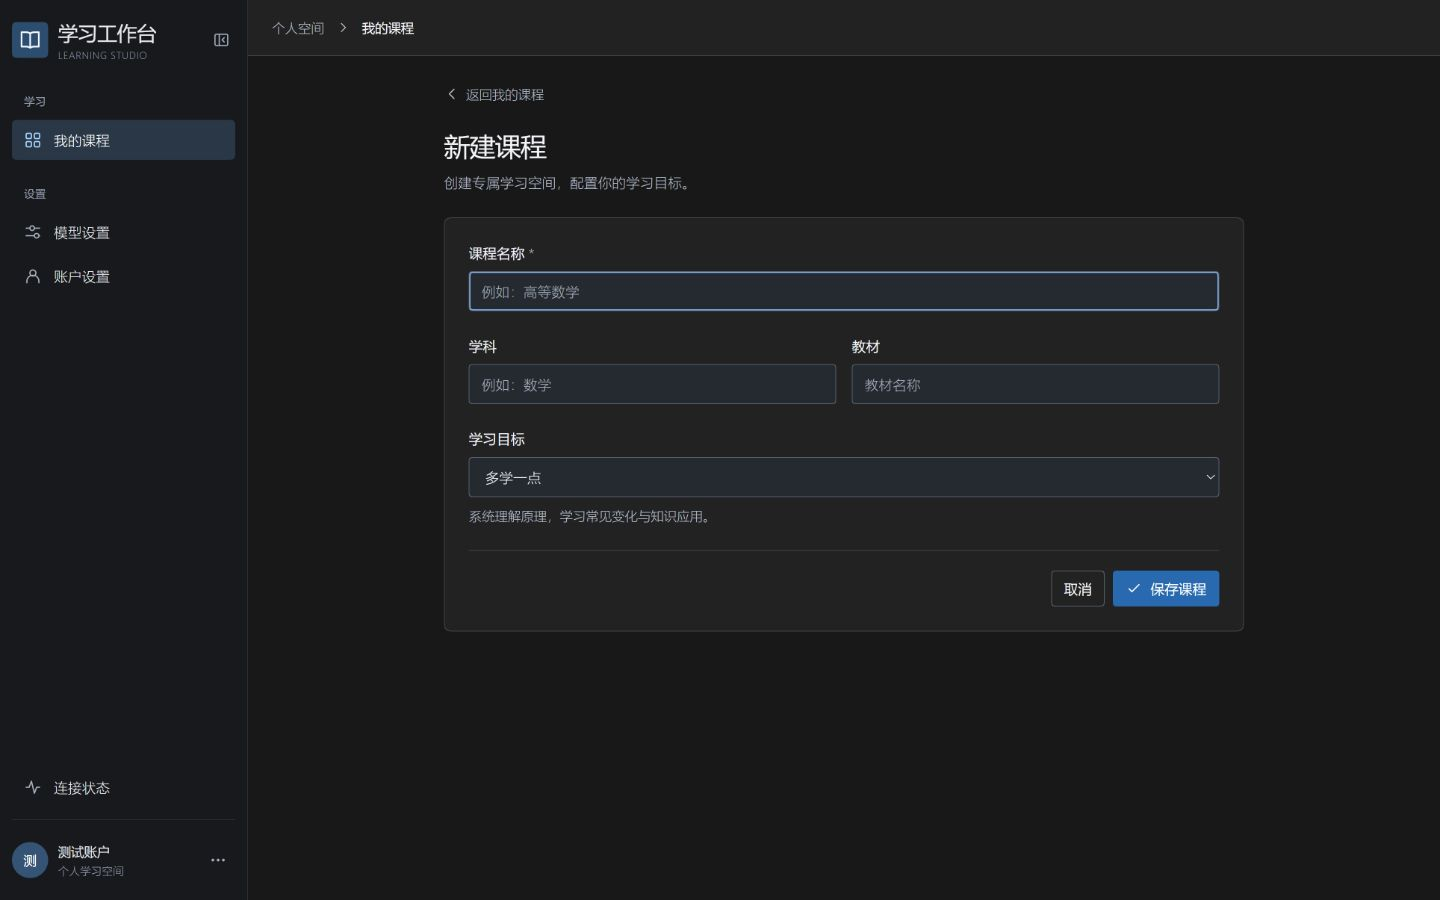
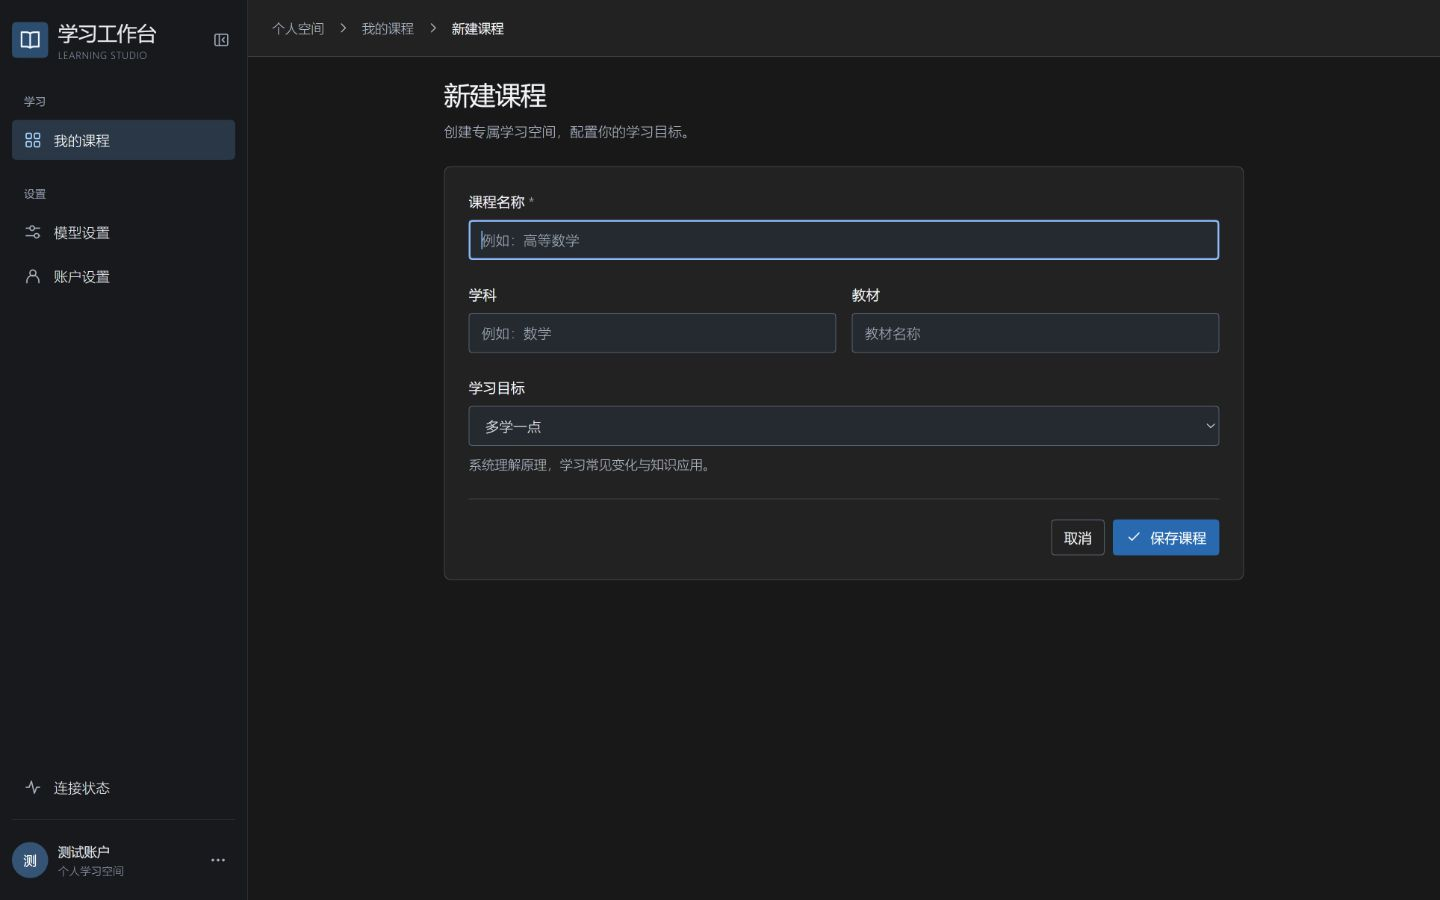
fix(ui): return through course breadcrumbs

diff --git a/frontend/tests/course-workspace.test.tsx b/frontend/tests/course-workspace.test.tsx
@@ -28,6 +28,7 @@ beforeEach(() => {
   vi.spyOn(window, 'confirm').mockReturnValue(false);
   vi.stubGlobal('requestAnimationFrame', (callback: FrameRequestCallback) => setTimeout(() => callback(0), 0));
   vi.mocked(api).mockImplementation(async path => {
+    if (path === 'users/me') return { id: 'user', display_name: '学生', email: 'student@example.com' };
     if (path.startsWith('courses?')) return courses;
     if (path.endsWith('/uploads')) return [];
     throw new Error('Unexpected request');
@@ -36,12 +37,31 @@ beforeEach(() => {
 afterEach(() => { cleanup(); vi.restoreAllMocks(); vi.unstubAllGlobals(); });
 
 async function ready() {
-  render(<CourseSpace />);
+  render(<Workspace />);
   fireEvent.click(await screen.findByRole('button', { name: '进入高等数学' }));
   await screen.findByRole('heading', { name: '高等数学' });
 }
 
 describe('desktop course workspace', () => {
+  it('navigates each course breadcrumb level and protects unsaved changes', async () => {
+    await ready();
+    expect(screen.queryByRole('button', { name: '返回' })).not.toBeInTheDocument();
+    fireEvent.click(screen.getByRole('button', { name: '编辑课程' }));
+    fireEvent.change(screen.getByLabelText(/课程名称/), { target: { value: '尚未保存的课程' } });
+    fireEvent.click(screen.getByRole('button', { name: '高等数学' }));
+    expect(window.confirm).toHaveBeenCalledOnce();
+    expect(screen.getByLabelText(/课程名称/)).toHaveValue('尚未保存的课程');
+    vi.mocked(window.confirm).mockReturnValue(true);
+    fireEvent.click(screen.getByRole('button', { name: '高等数学' }));
+    expect(screen.queryByLabelText(/课程名称/)).not.toBeInTheDocument();
+    expect(screen.getByRole('heading', { name: '高等数学' })).toBeInTheDocument();
+    fireEvent.click(screen.getByRole('button', { name: '我的课程' }));
+    expect(screen.getByRole('region', { name: '学习中的课程' })).toBeInTheDocument();
+    fireEvent.click(screen.getByRole('button', { name: '新建课程' }));
+    expect(screen.queryByRole('button', { name: '返回我的课程' })).not.toBeInTheDocument();
+    fireEvent.click(screen.getByRole('button', { name: '我的课程' }));
+    expect(screen.queryByLabelText(/课程名称/)).not.toBeInTheDocument();
+  });
   it('preserves all form values after a failed create and retries the same API contract', async () => {
     render(<CourseSpace />);
     fireEvent.click(await screen.findByRole('button', { name: '新建课程' }));
@@ -85,7 +105,7 @@ describe('desktop course workspace', () => {
     expect(screen.getByLabelText('章节 1标题')).toHaveValue('未保存的目录');
   });
   it('shows only active courses in one container and opens detail explicitly', async () => {
-    render(<CourseSpace />);
+    render(<Workspace />);
     const enter = await screen.findByRole('button', { name: '进入高等数学' });
     expect(screen.queryByRole('heading', { name: '高等数学' })).not.toBeInTheDocument();
     expect(screen.queryByText('大学物理')).not.toBeInTheDocument();
@@ -97,7 +117,7 @@ describe('desktop course workspace', () => {
     fireEvent.click(enter);
     expect(screen.getByRole('heading', { name: '高等数学' })).toBeInTheDocument();
     expect(screen.queryByRole('region', { name: '学习中的课程' })).not.toBeInTheDocument();
-    fireEvent.click(screen.getByRole('button', { name: '返回' }));
+    fireEvent.click(screen.getByRole('button', { name: '我的课程' }));
     fireEvent.change(screen.getByRole('searchbox', { name: '搜索当前页课程' }), { target: { value: '上册' } });
     expect(screen.getByRole('button', { name: /高等数学/ })).toBeInTheDocument();
     expect(screen.queryByRole('button', { name: /大学物理/ })).not.toBeInTheDocument();
@@ -110,7 +130,7 @@ describe('desktop course workspace', () => {
 
   it('protects an unsaved editor and sends only the existing course fields on save', async () => {
     await ready();
-    fireEvent.click(screen.getByRole('button', { name: '返回' }));
+    fireEvent.click(screen.getByRole('button', { name: '我的课程' }));
     fireEvent.click(screen.getByRole('button', { name: '新建课程' }));
     fireEvent.change(screen.getByLabelText(/课程名称/), { target: { value: '概率论' } });
     fireEvent.click(screen.getByRole('button', { name: '取消' }));
@@ -143,7 +163,7 @@ describe('desktop course workspace', () => {
     await ready();
     expect(screen.getAllByRole('tab')).toHaveLength(2);
     expect(screen.queryByRole('tab', { name: /学习资料/ })).not.toBeInTheDocument();
-    fireEvent.click(screen.getByRole('button', { name: '返回' }));
+    fireEvent.click(screen.getByRole('button', { name: '我的课程' }));
     fireEvent.click(screen.getByRole('button', { name: '进入高等数学' }));
     expect(vi.mocked(api).mock.calls.some(([path]) => path.endsWith('/uploads'))).toBe(false);
   });
@@ -316,14 +336,14 @@ describe('account and shell states', () => {
 
   it('requires confirmation before returning from an unsaved compact editor to the directory', async () => {
     await ready();
-    fireEvent.click(screen.getByRole('button', { name: '返回' }));
+    fireEvent.click(screen.getByRole('button', { name: '我的课程' }));
     fireEvent.click(screen.getByRole('button', { name: '新建课程' }));
     fireEvent.change(screen.getByLabelText(/课程名称/), { target: { value: '尚未保存' } });
-    fireEvent.click(screen.getByRole('button', { name: '返回我的课程' }));
+    fireEvent.click(screen.getByRole('button', { name: '我的课程' }));
     expect(window.confirm).toHaveBeenCalledOnce();
     expect(screen.getByLabelText(/课程名称/)).toHaveValue('尚未保存');
     vi.mocked(window.confirm).mockReturnValue(true);
-    fireEvent.click(screen.getByRole('button', { name: '返回我的课程' }));
+    fireEvent.click(screen.getByRole('button', { name: '我的课程' }));
     expect(screen.queryByLabelText(/课程名称/)).not.toBeInTheDocument();
     expect(screen.getByRole('region', { name: '学习中的课程' }).closest('.course-space')).not.toHaveClass('showing-detail');
   });

diff --git a/frontend/components/workspace.tsx b/frontend/components/workspace.tsx
@@ -1,6 +1,6 @@
 'use client';
 
-import { useEffect, useState } from 'react';
+import { Fragment, useEffect, useState } from 'react';
 import Link from 'next/link';
 import { Account, type User } from './account';
 import { CourseSpace } from './course-space';
@@ -9,7 +9,7 @@ import { AISettings } from './ai-settings';
 import { Icon } from './icon';
 import { AppSidebar } from './app-sidebar';
 import { ConnectionStatus } from './connection-status';
-import { Breadcrumb } from './ui';
+import { Breadcrumb, type BreadcrumbItem } from './ui';
 import { useWorkspaceNavigation, workspaceLabels } from '../lib/workspace-navigation';
 import { api, ApiError } from '../lib/api';
 
@@ -23,6 +23,7 @@ export function Workspace({ testLoginEnabled = false, accountNotice = '', system
   const [busy, setBusy] = useState(false);
   const [dirty, setDirty] = useState(false);
   const [retry, setRetry] = useState(0);
+  const [courseCrumbs, setCourseCrumbs] = useState<BreadcrumbItem[]>([]);
   const { view, navigate } = useWorkspaceNavigation(systemView ? 'system' : 'courses', leaveEditor, () => setDirty(false));
 
   useEffect(() => {
@@ -91,14 +92,18 @@ export function Workspace({ testLoginEnabled = false, accountNotice = '', system
     <div className="app-body">
       <header className="workspace-topbar">
         <Breadcrumb><span>个人空间</span><Icon name="chevron" size={14} />
-          <strong aria-current="page">{workspaceLabels[view]}</strong></Breadcrumb>
+          {view === 'courses' && courseCrumbs.length ? courseCrumbs.map((item, index) => <Fragment key={index}>
+            {index ? <Icon name="chevron" size={14} /> : null}
+            {item.onSelect ? <button type="button" disabled={item.disabled} onClick={item.onSelect} title={item.label}>{item.label}</button> :
+              <strong aria-current={index === courseCrumbs.length - 1 ? 'page' : undefined} title={item.label}>{item.label}</strong>}
+          </Fragment>) : <strong aria-current="page">{workspaceLabels[view]}</strong>}</Breadcrumb>
       </header>
       <main id="main-content" className="workspace-main">
         {notice ? <p className="notice error" role="alert"><Icon name="alert" size={18} />{notice}</p> : null}
         {view === 'system' ? <div className="status-page"><div className="page-heading"><div><h1>连接状态</h1>
           <p>查看工作台与基础服务的连接情况。</p></div></div><ConnectionStatus /></div> : user && (view === 'ai' ? <AISettings key={user.id} userId={user.id} onDirtyChange={setDirty} onSessionExpired={expired} /> : view === 'profile' ? <Profile user={user} onUpdate={setUser} onSessionExpired={expired} onPasswordChanged={() => {
           expired(); setNotice('密码已修改，请重新登录。');
-        }} /> : <CourseSpace onDirtyChange={setDirty} onSessionExpired={expired} />)}
+        }} /> : <CourseSpace onDirtyChange={setDirty} onSessionExpired={expired} onBreadcrumbChange={setCourseCrumbs} />)}
       </main>
     </div>
   </div>;

diff --git a/frontend/components/course-space.tsx b/frontend/components/course-space.tsx
@@ -9,11 +9,12 @@ import { CourseEditor } from './course-editor';
 import { CurriculumEditor } from './curriculum';
 import { Icon } from './icon';
 import { Toast, useToast } from './toast';
-import { PageContainer } from './ui';
+import { PageContainer, type BreadcrumbItem } from './ui';
 
-export function CourseSpace({ onDirtyChange, onSessionExpired }: {
+export function CourseSpace({ onDirtyChange, onSessionExpired, onBreadcrumbChange }: {
   onDirtyChange?: (dirty: boolean) => void;
   onSessionExpired?: () => void;
+  onBreadcrumbChange?: (items: BreadcrumbItem[]) => void;
 }) {
   const [courses, setCourses] = useState<Course[]>([]);
   const [selected, setSelected] = useState<Course | null>(null);
@@ -40,6 +41,21 @@ export function CourseSpace({ onDirtyChange, onSessionExpired }: {
     onDirtyChange?.(dirty);
   }, [dirty, onDirtyChange]);
   useEffect(() => () => onDirtyChange?.(false), [onDirtyChange]);
+  useEffect(() => () => onBreadcrumbChange?.([]), [onBreadcrumbChange]);
+
+  // Course state and guarded navigation stay here; the shell only renders this snapshot.
+  useEffect(() => {
+    const items: BreadcrumbItem[] = [{ label: '我的课程' }];
+    if (editing || selected) {
+      items[0] = { label: '我的课程', disabled: busy, onSelect: () => { if (!busy) backToDirectory(); } };
+      if (editing === 'new') items.push({ label: '新建课程' });
+      else if (selected) {
+        items.push({ label: selected.title, ...(editing ? { disabled: busy, onSelect: () => { if (!busy) cancelEditor(); } } : {}) });
+        if (editing) items.push({ label: '编辑课程' });
+      }
+    }
+    onBreadcrumbChange?.(items);
+  }, [editing, selected, dirty, busy, onBreadcrumbChange]);
 
   useEffect(() => {
     if (!dirty) return;
@@ -206,9 +222,6 @@ export function CourseSpace({ onDirtyChange, onSessionExpired }: {
               onClick={() => page(offset + 100)}><Icon name="chevron" size={16} /></button></div></div> : null}
       </section>
       : <PageContainer size={editing ? 'standard' : 'full'} className={'detail-region' + (editing ? ' course-form-page' : '')} ref={detailRegion}>
-        <button className="text-button detail-back" disabled={busy} onClick={backToDirectory}>
-          <span className="rotate-icon"><Icon name="chevron" size={16} /></span>{editing ? '返回我的课程' : '返回'}
-        </button>
         {editing ? <CourseEditor key={editing === 'new' ? 'new' : selected!.id} course={editing === 'new' ? null : selected}
           busy={busy} onSave={data => void save(data)} onCancel={cancelEditor} onDirty={() => setDirty(true)} /> :
           selected ? <section className="detail-panel" aria-labelledby="course-detail-title">

diff --git a/frontend/styles/ui.css b/frontend/styles/ui.css
@@ -36,6 +36,11 @@ select { color-scheme: inherit; }
 select option { background: var(--surface); color: var(--text-primary); }
 .breadcrumb { color: var(--text-secondary); font-size: var(--font-caption); gap: var(--space-3); }
 .breadcrumb strong { color: var(--text-primary); }
+.breadcrumb { min-width: 0; }
+.breadcrumb > :is(button, strong) { min-width: 0; max-width: 32ch; overflow: hidden; text-overflow: ellipsis; white-space: nowrap; }
+.breadcrumb button { flex-shrink: 0; padding: var(--space-1) 0; min-height: 32px; border: 0; border-radius: var(--radius-small); background: transparent; color: var(--text-secondary); text-align: left; }
+.breadcrumb button:hover:enabled { color: var(--text-primary); text-decoration: underline; text-underline-offset: 4px; }
+.breadcrumb button:disabled { cursor: progress; }
 .page-container { width: 100%; min-width: 0; margin-inline: auto; }
 .page-container-narrow { max-width: var(--container-narrow); }
 .page-container-standard { max-width: var(--container-standard); }
@@ -53,7 +58,6 @@ select option { background: var(--surface); color: var(--text-primary); }
 .form-field small { color: var(--text-secondary); font-size: var(--font-caption); line-height: 1.6; }
 .form-field .field-error { color: var(--danger); }
 .course-library .course-form-page { flex: 1; overflow-y: auto; overscroll-behavior: contain; padding-bottom: var(--space-6); }
-.course-form-page .detail-back { color: var(--text-secondary); margin-bottom: var(--space-4); padding-inline: 0; }
 .course-editor { flex: none; min-width: 0; }
 .course-editor .form-stack { display: grid; gap: var(--space-6); }
 .course-form-fields { border: 0; margin: 0; padding: 0; min-width: 0; }
@@ -72,5 +76,7 @@ select option { background: var(--surface); color: var(--text-primary); }
   .course-editor .field-pair { grid-template-columns: minmax(0, 1fr); }
   .course-editor .form-stack :is(input.ui-input, select.ui-select) { min-height: var(--touch-target); font-size: 16px; }
   .button { min-height: var(--touch-target); }
-  .course-form-page .detail-back { min-height: var(--touch-target); }
+  .breadcrumb { gap: var(--space-2); }
+  .breadcrumb > :is(button, strong) { max-width: 18ch; }
+  .breadcrumb button { min-height: var(--touch-target); flex-shrink: 1; }
 }

diff --git a/frontend/app/globals.css b/frontend/app/globals.css
@@ -337,7 +337,6 @@ html, body { height: 100%; overflow: hidden; }
 .index-empty { padding: 28px 22px; }
 .index-footer { min-height: 44px; padding: 4px 14px 4px 20px; flex-shrink: 0; }
 .detail-region { display: flex; flex-direction: column; min-height: 0; }
-.detail-back { display: none; }
 .detail-panel { flex: 1; min-height: 0; display: flex; flex-direction: column; padding: 20px; overflow: hidden; }
 .detail-heading, .panel-heading, .panel-description, .detail-tabs, .last-edited, .course-detail-title { flex-shrink: 0; }
 .course-detail-title { margin: 12px 0 4px; font-size: 22px; display: -webkit-box; -webkit-box-orient: vertical; -webkit-line-clamp: 2; overflow: hidden; }
@@ -388,7 +387,6 @@ html, body { height: 100%; overflow: hidden; }
   .course-workarea { grid-template-columns: 1fr; gap: 0; }
   .course-space:not(.showing-detail) .detail-region { display: none; }
   .showing-detail .page-heading, .showing-detail .library-toolbar, .showing-detail .course-index { display: none; }
-  .detail-back { display: inline-flex; align-self: flex-start; margin-bottom: 8px; flex-shrink: 0; min-height: 32px; }
   .detail-panel { padding: 16px; }
   .detail-placeholder { display: none; }
   .course-row { min-height: 84px; padding: 16px; }
@@ -654,7 +652,6 @@ html, body { height: 100%; overflow: hidden; }
 .course-library .course-enter { flex-shrink: 0; background: #256b45; border-color: #256b45; color: #ffffff; min-width: 90px; }
 .course-library .course-enter:hover:enabled { background: #1c5335; border-color: #1c5335; }
 .course-library .detail-region { flex: 1; }
-.course-library .detail-back { display: inline-flex; align-self: flex-start; flex-shrink: 0; margin-bottom: 12px; min-height: 36px; }
 .account-page:has(.archived-courses) { overflow: auto; overscroll-behavior: contain; }
 .account-page:has(.archived-courses) .account-overview { overflow: visible; flex-shrink: 0; }
 .archived-courses { width: 100%; max-width: 1260px; align-self: center; flex-shrink: 0; margin: 12px 0 24px; border-top: 1px solid var(--line); }

diff --git a/frontend/components/ui.tsx b/frontend/components/ui.tsx
@@ -33,4 +33,5 @@ export function PageHeader({ id, title, description }: { id?: string; title: str
   return <header className="ui-page-header"><h1 id={id}>{title}</h1>{description ? <p>{description}</p> : null}</header>;
 }
 
+export type BreadcrumbItem = { label: string; onSelect?: () => void; disabled?: boolean };
 export function Breadcrumb({ children }: { children: ReactNode }) { return <nav className="breadcrumb" aria-label="面包屑">{children}</nav>; }

diff --git a/DESIGN.md b/DESIGN.md
@@ -99,7 +99,7 @@ components:
 - PageContainer 统一 narrow 640 / standard 800 / wide 1120 / full 自适应，页面不自行定义任意宽度。课程新建与编辑使用 standard；其他现有业务布局保持。
 - `frontend/styles/ui.css` 维护既有 `.button`、`.form-stack` 和新的公共组件，避免平行组件体系。Button 支持 primary/secondary/ghost/danger，small/medium/large 高度 32/36/40px，禁用/loading 均有状态；手机按钮至少 44px。Input/Select 默认 40px，手机课程表单至少 44px，品牌蓝焦点在原边框内绘制；错误使用语义 danger。
 - `frontend/components/ui.tsx` 提供 Button、Input、Select、FormField、Card、PageHeader、PageContainer、Breadcrumb。原生 select 保留操作系统箭头、弹出层及键盘选择，不引入自绘菜单与第三方库。Card 有 default/secondary/interactive 外观；交互语义由调用者选择合适的按钮或链接。已有 `.status-tag` 与分隔线继续复用共享颜色/圆角变量；既有 Dialog 和 Sidebar 继续使用各自行为模块与受控主题变量。
-- 首张标准页：返回我的课程、卡片外标题/说明、内容自然撑开的卡片；名称独占一行，学科/教材桌面双列、<768px 单列，学习目标独占一行，取消/保存右对齐、间距 8px。卡片内边距桌面 24、平板 20、手机 16px。短屏仅主内容内滚动，所有操作可达。
+- 首张标准页：顶部面包屑返回上级、卡片外标题/说明、内容自然撑开的卡片；不再显示独立返回按钮。面包屑显示“个人空间 > 我的课程 > 新建课程”或课程详情/编辑层级，祖先名称可点击、当前页为文本；保留忙碌禁用与未保存确认。名称独占一行，学科/教材桌面双列、<768px 单列，学习目标独占一行，取消/保存右对齐、间距 8px。卡片内边距桌面 24、平板 20、手机 16px。短屏仅主内容内滚动，所有操作可达。
 
 公共组件只负责呈现与原生属性传递，不依赖课程、API、用户或导航控制器。CourseEditor 持有目标选择与字段校验；CourseSpace 仍持有网络、忙碌、错误、持久化与离开保护。请求字段、旧自定义目标兼容及异步失败路径保持；没有引入全局状态、额外监听器或新依赖。
 

diff --git a/HANDOFF.md b/HANDOFF.md
@@ -1,5 +1,9 @@
 # 项目交接
 
+## 2026-11-09 面包屑取代独立返回按钮
+
+按用户追加要求移除课程新建/编辑/详情的独立返回按钮，顶部面包屑显示当前层级，点击“我的课程”回列表，编辑时点击课程名回详情。CourseSpace 发布只含显示文字、禁用状态与受保护回调的快照；Workspace 仅呈现，未将课程状态/业务导航移入公共组件，卸载清理快照。保留原未保存确认、忙碌禁用与焦点恢复；主代理解耦复查通过。86 项前端测试、类型与生产构建通过；桌面/390px 手机实测逐级返回、无横向溢出，控制台无警告/错误，未保存任何用户课程更改。效果图与追加验收集中见 docs/verification/course-design-system-20261109。按本地 master 队列交付并复用验收镜像更新 localhost:3000，不推送或发布云端；任务预览、镜像标签、缓存和普通 worktree 收尾回收，保留原外部修改、运行依赖和更新后的两张效果图。
+
 ## 2026-11-09 课程 UI 设计系统
 
 已完善原主题 Token 和共享控件，以新建/编辑课程为首张 800px 标准表单：返回与标题移出卡片、取消/保存右对齐、桌面双列与手机单列、行内必填错误和忙碌禁用。保留后端/API/数据结构、旧目标兼容、状态编辑和未保存保护；其他页面仅接受公共样式调整，未改变业务布局。设计规范与复用示例见 DESIGN.md 最新 Overview；文件清单、85 项前端测试/类型/最终生产构建与五尺寸深色浏览器验收、真实保存持久化和限制集中见 docs/verification/course-design-system-20261109/README.md。主代理解耦复查通过，无独立评审。

diff --git a/RUNBOOK.md b/RUNBOOK.md
@@ -2,7 +2,9 @@
 
 ## 课程 UI 设计系统 · 2026-11-09
 
-当前入口仍为 `/` → 新建课程；新建/编辑共用 800px 标准表单，桌面双列、手机单列，取消/保存按内容宽度右对齐。Token 来源为 `frontend/styles/tokens.css`，原共享类名与新公共组件统一由 `frontend/styles/ui.css`、`frontend/components/ui.tsx` 维护。容器 640/800/1120/full，使用方式见 DESIGN.md 最新 Overview。后续页面复用这些组件，不另建主题/控件体系。检查继续使用 frontend 中 `npm run check`、`npm test`、`npm run build`；当前 85 项测试。截图、文件清单和实际验收限制见 `docs/verification/course-design-system-20261109/README.md`。
+追加：课程页不再提供独立返回按钮；顶部面包屑的“我的课程”返回列表，编辑时可点课程名回详情，保留未保存确认及保存期间禁用。当前前端测试 86 项。导航快照与受保护回调由 CourseSpace 提供，Workspace 负责顶部呈现。
+
+当前入口仍为 `/` → 新建课程；新建/编辑共用 800px 标准表单，桌面双列、手机单列，取消/保存按内容宽度右对齐。Token 来源为 `frontend/styles/tokens.css`，原共享类名与新公共组件统一由 `frontend/styles/ui.css`、`frontend/components/ui.tsx` 维护。容器 640/800/1120/full，使用方式见 DESIGN.md 最新 Overview。后续页面复用这些组件，不另建主题/控件体系。检查继续使用 frontend 中 `npm run check`、`npm test`、`npm run build`；当前 86 项测试。截图、文件清单和实际验收限制见 `docs/verification/course-design-system-20261109/README.md`。
 
 ## 当前导航外壳 · 2026-11-09
 

diff --git a/docs/verification/course-design-system-20261109/README.md b/docs/verification/course-design-system-20261109/README.md
@@ -1,5 +1,13 @@
 # 课程设计系统验收 · 2026-11-09
 
+## 追加：面包屑导航
+
+按用户新要求删除独立返回按钮，由顶部祖先名称逐级返回；新建页为“个人空间 > 我的课程 > 新建课程”，编辑页另显示可返回详情的课程名。更新 CourseSpace、Workspace、UI 面包屑类型/样式及直接相关回归，删除失效的返回按钮样式；两张效果图已更新为本次状态。
+
+86 项前端测试、类型检查与生产构建通过，新增真实 Workspace 集成回归验证编辑→详情→列表与新建→列表，并验证未保存修改拒绝/允许离开；设计检测返回 `[]`。Chrome 实查桌面和 390×844 手机点击返回，独立按钮不存在、无横向滚动，控制台无警告/错误；未修改任何原课程。解耦复查通过：CourseSpace 保留全部状态及导航保护，只向 Workspace 发布显式文字/禁用/回调快照，依赖仍为 Workspace→CourseSpace/UI，没有 DOM 插槽、全局事件或反向依赖；卸载清空快照。
+
+以下为首轮设计系统验收记录，其中独立返回按钮的描述由本节取代。
+
 以新建课程为首张标准页，原 Next.js 动态服务、同源 API、课程结构和业务规则保留。没有新增依赖；未发布云端或 Sites。
 
 ## 文件清单
